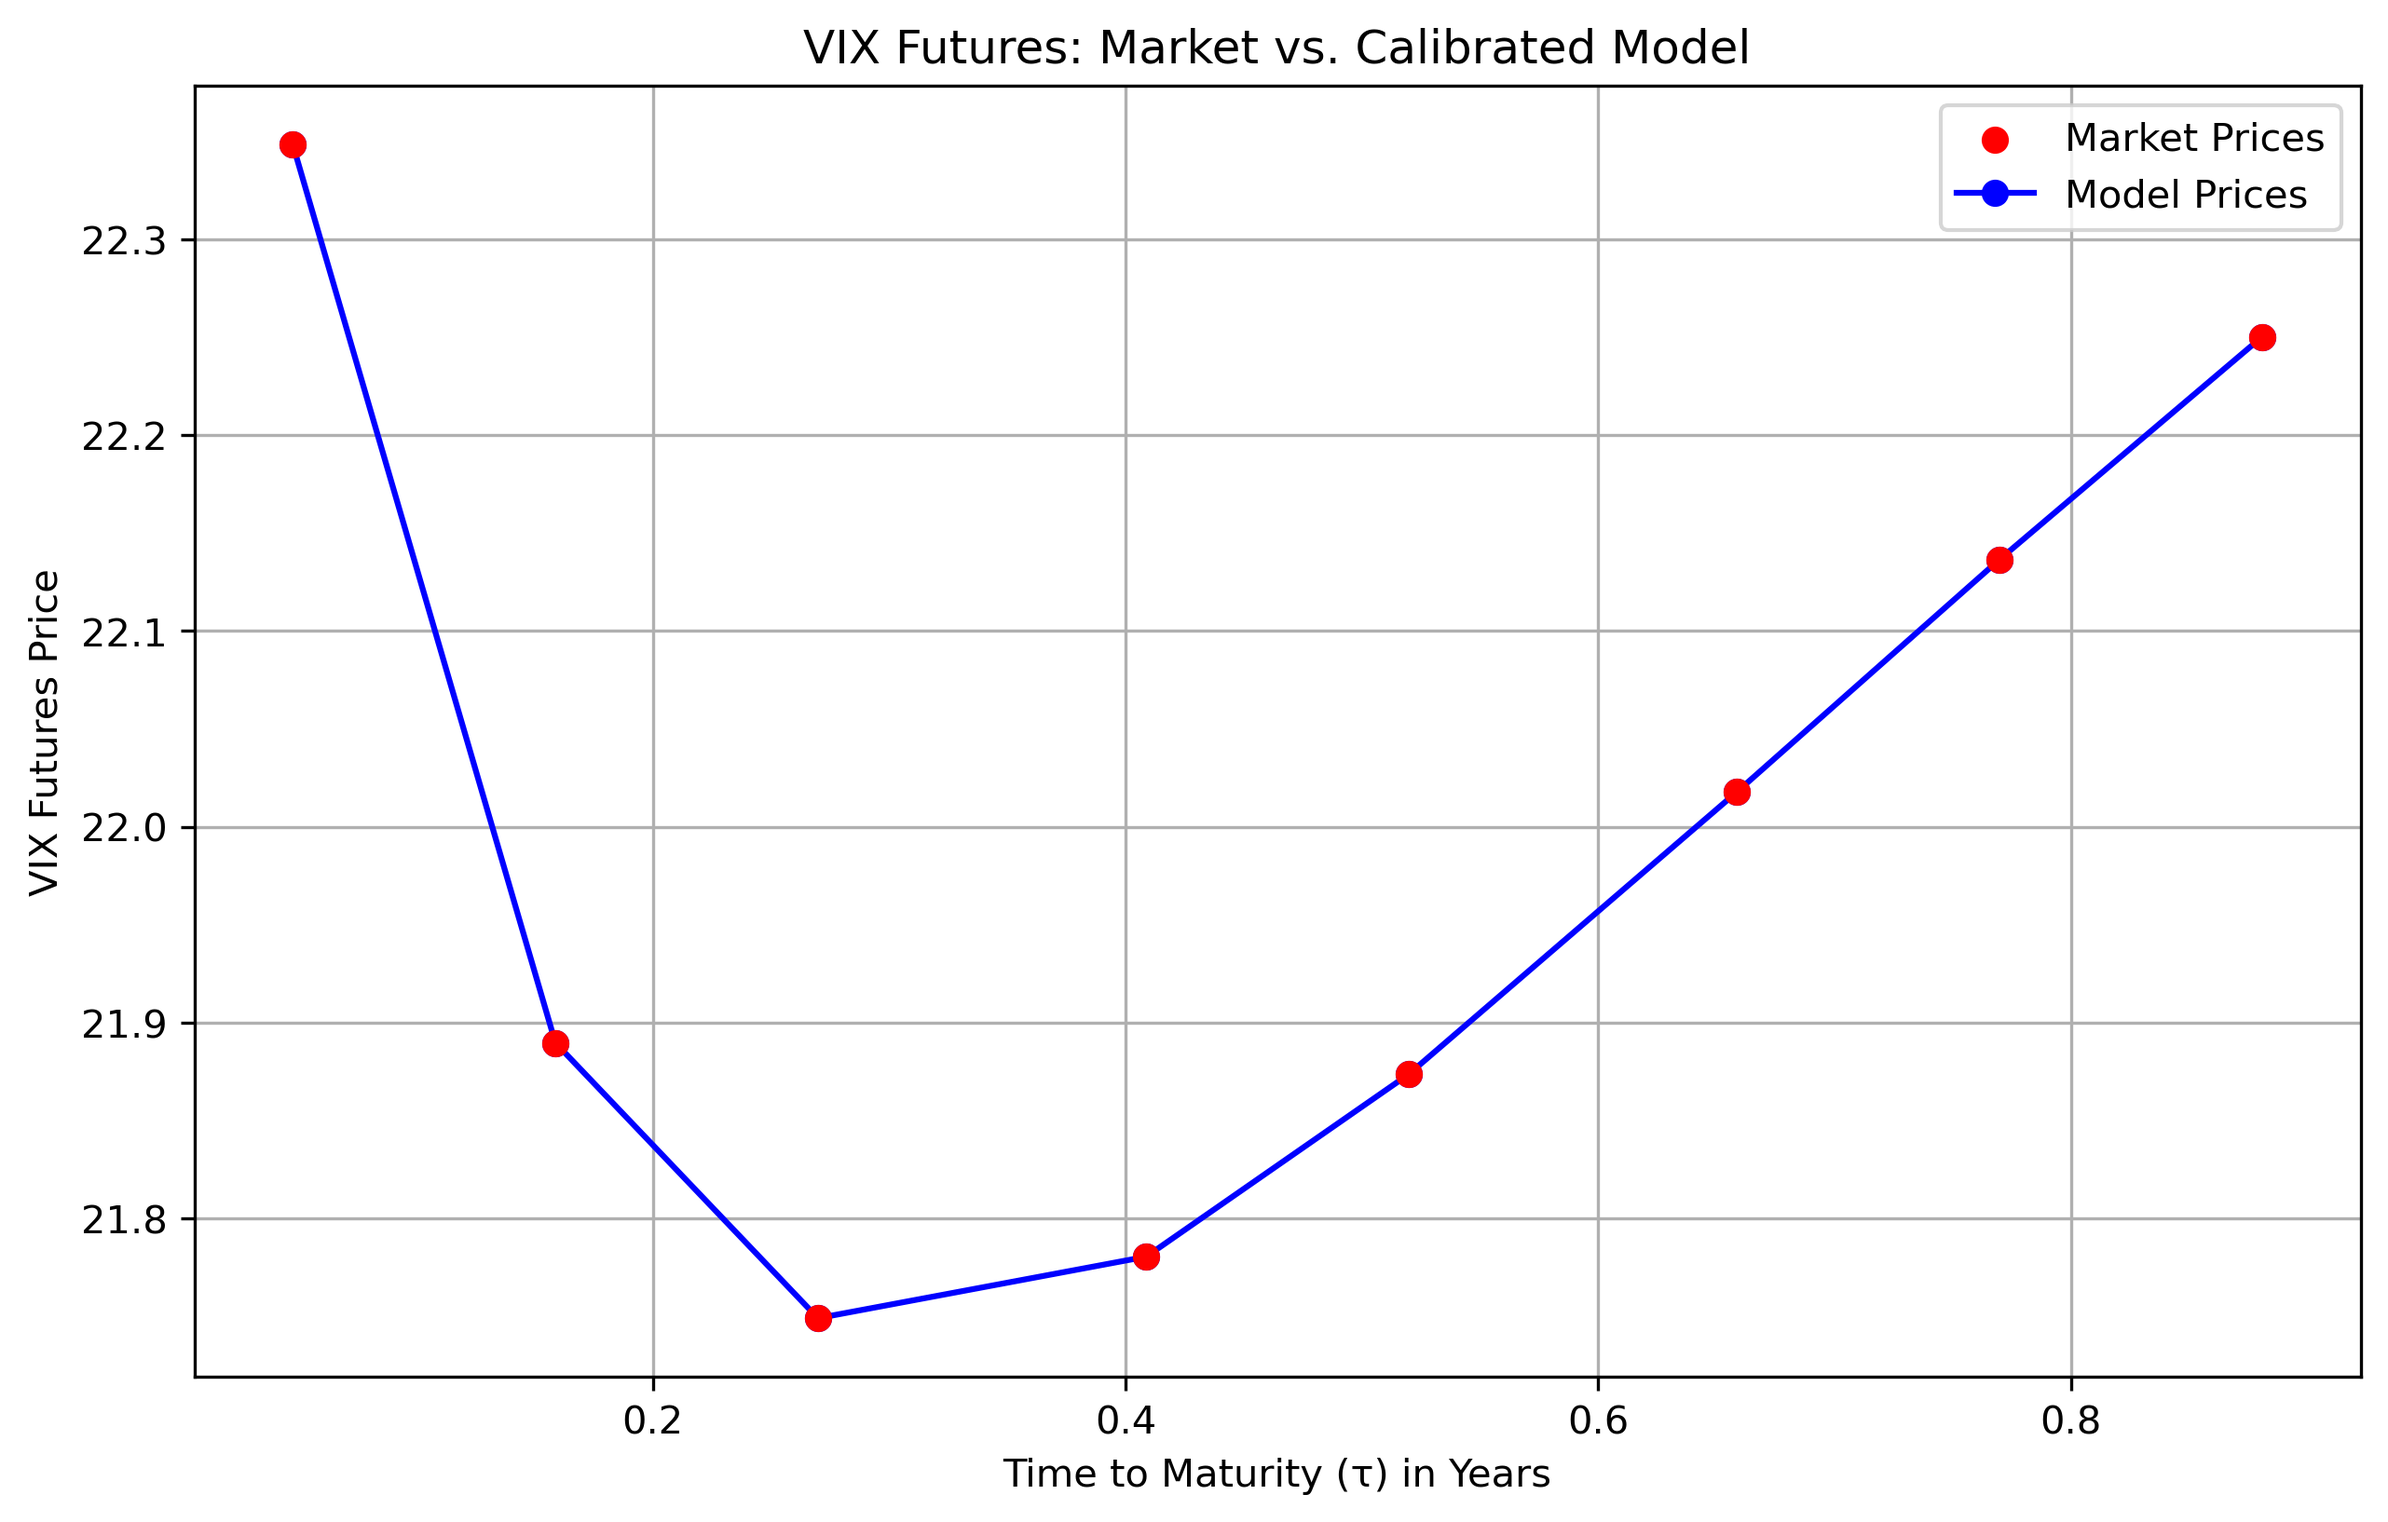
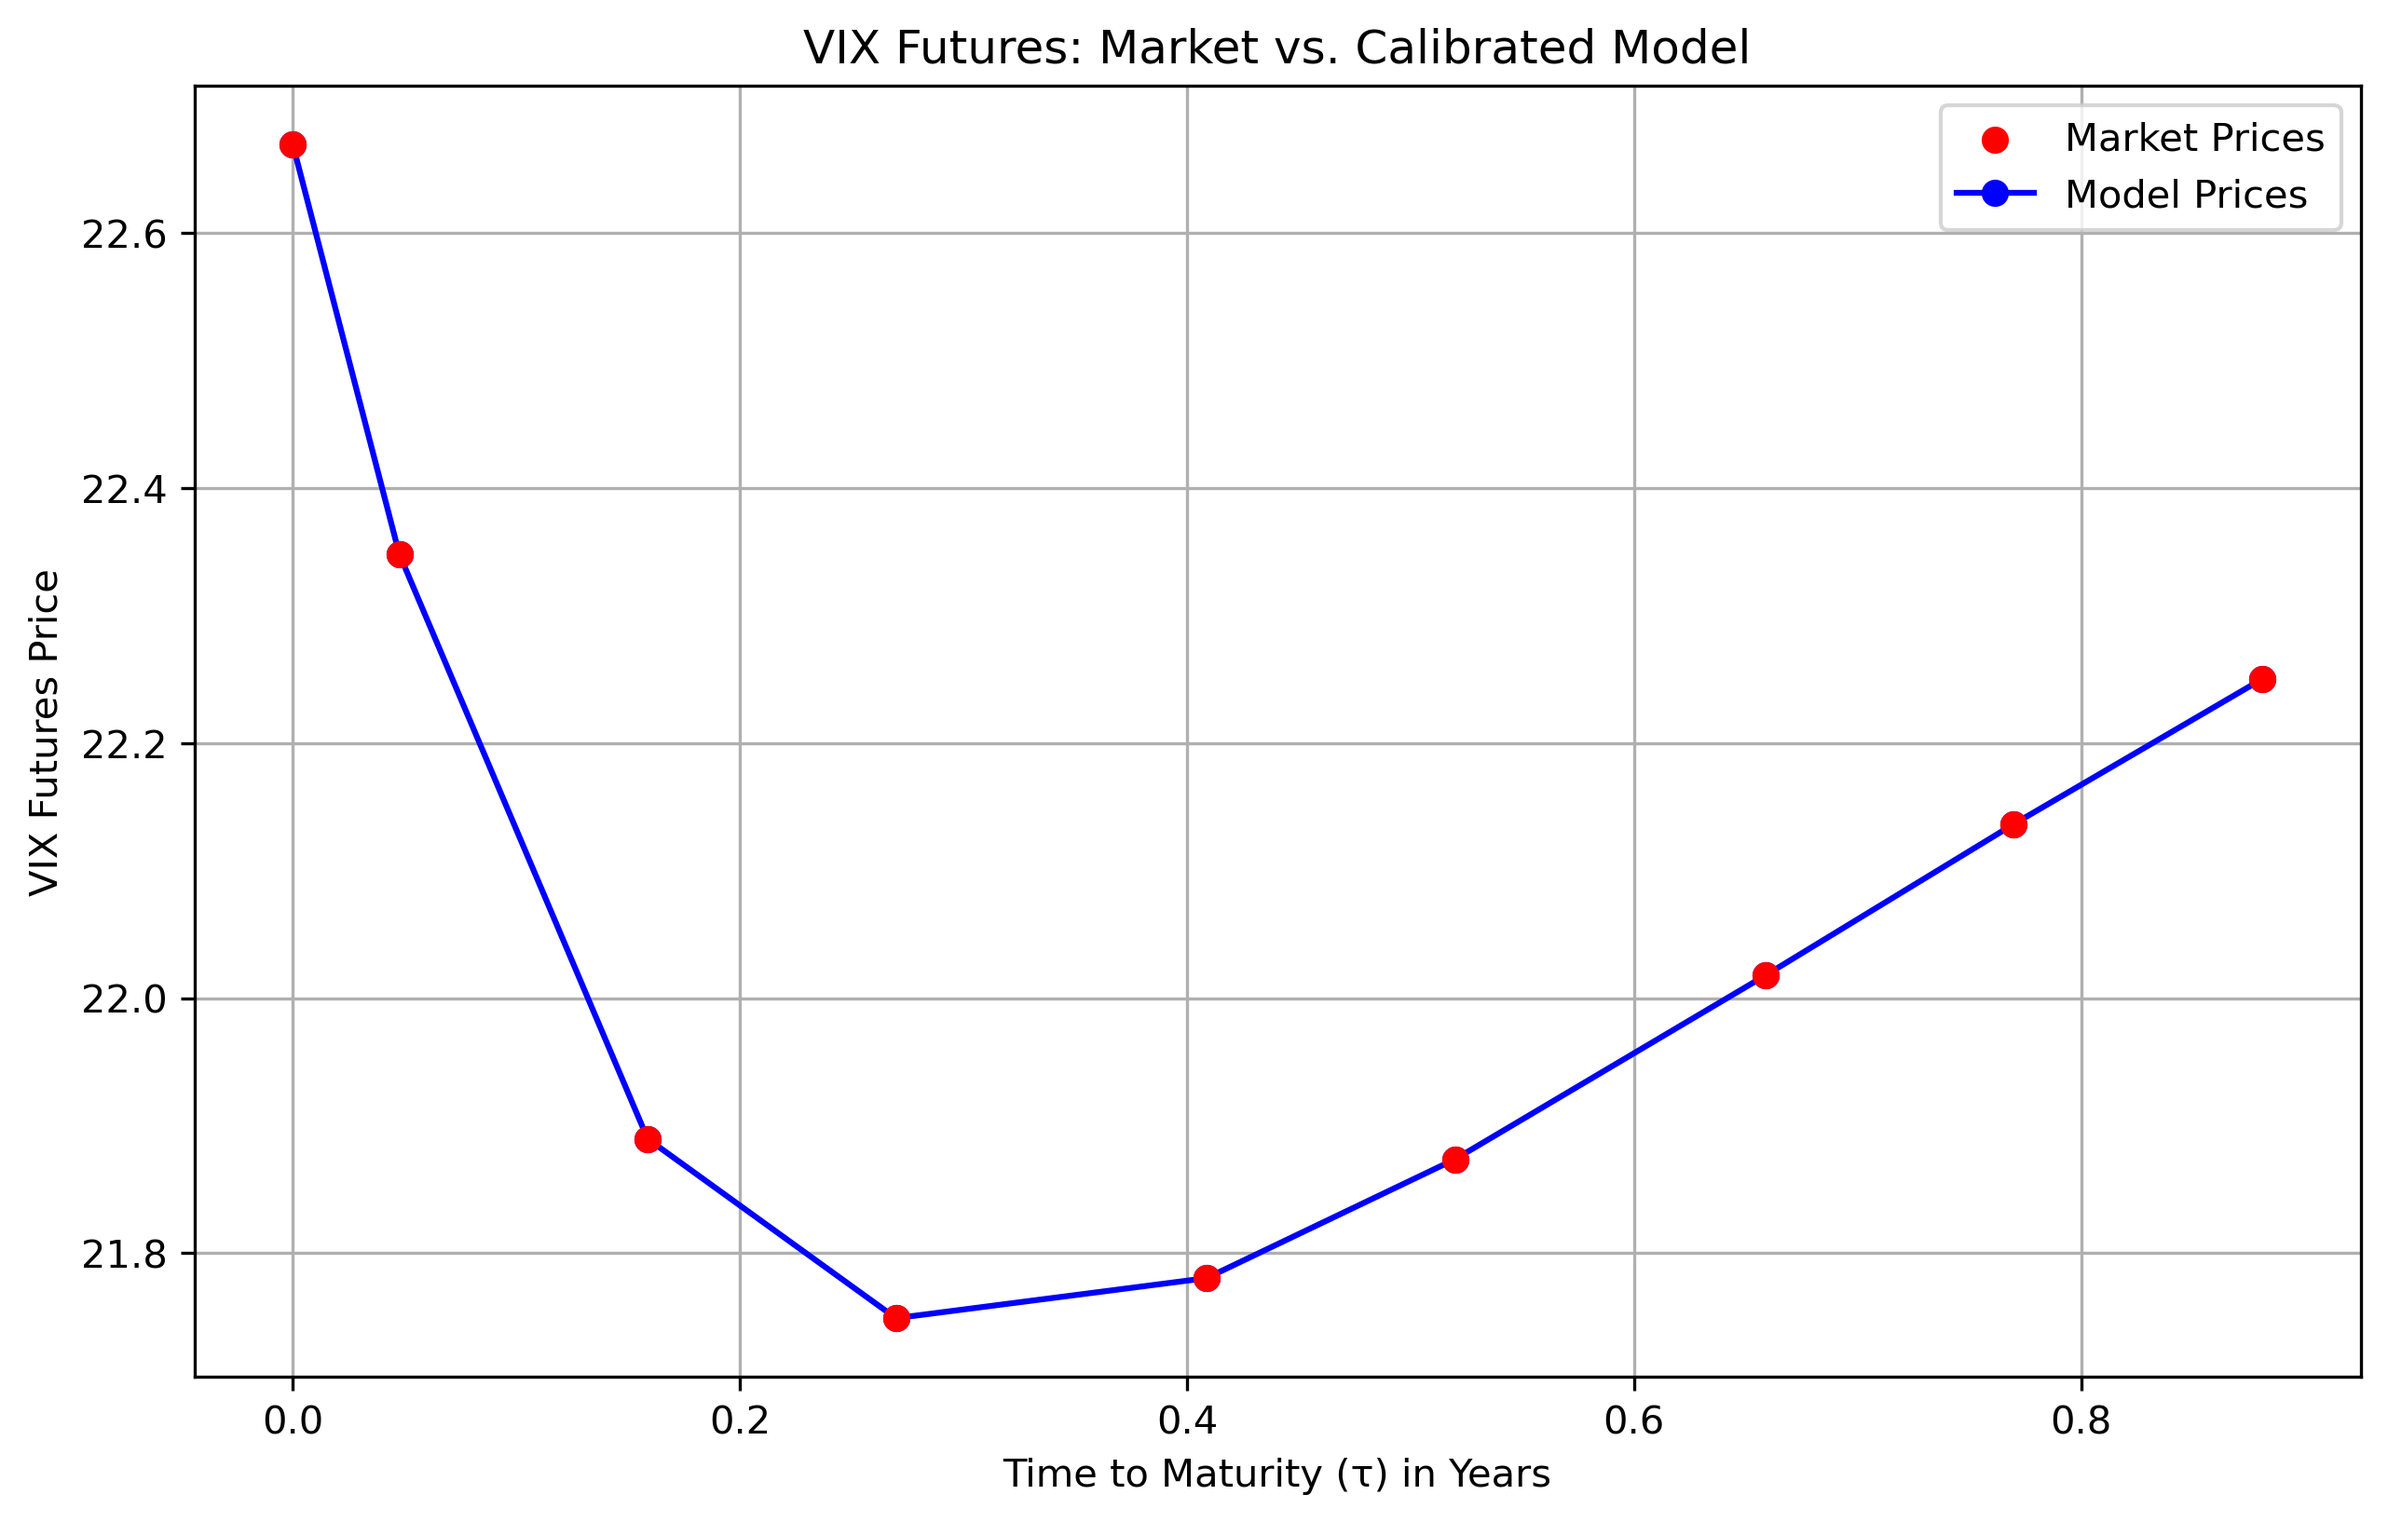
Add VIX futures data to synthetic market data and skip calibration for spot VIX

diff --git a/src/calibration.py b/src/calibration.py
@@ -19,6 +19,7 @@ warnings.filterwarnings('ignore', category=UserWarning)
 
 # Market Data -- Synthetic
 vix_futures_data = [
+    {'symbol': 'VIX', 'expiry': '5/9/25', 'price': 22.6694, 'days': 0},
     {'symbol': 'VX/K5', 'expiry': '5/21/25', 'price': 22.3484, 'days': 12},
     {'symbol': 'VX/M5', 'expiry': '6/18/25', 'price': 21.8897, 'days': 40},
     {'symbol': 'VX/N5', 'expiry': '7/16/25', 'price': 21.7491, 'days': 68},
@@ -98,6 +99,8 @@ def run_calibration_pipeline(vix_data, variance_data, initial_guess, bounds):
         for contract in vix_data:
             tau = contract['days'] / 252.0
             # Skip the spot VIX for calibration if its tau is 0
+            if tau == 0:
+                continue
             model_price = compute_vix_futures_price(tau, V_t, lambda_p, theta_p, xi_p)
             total_error += (model_price - contract['price'])**2
 
